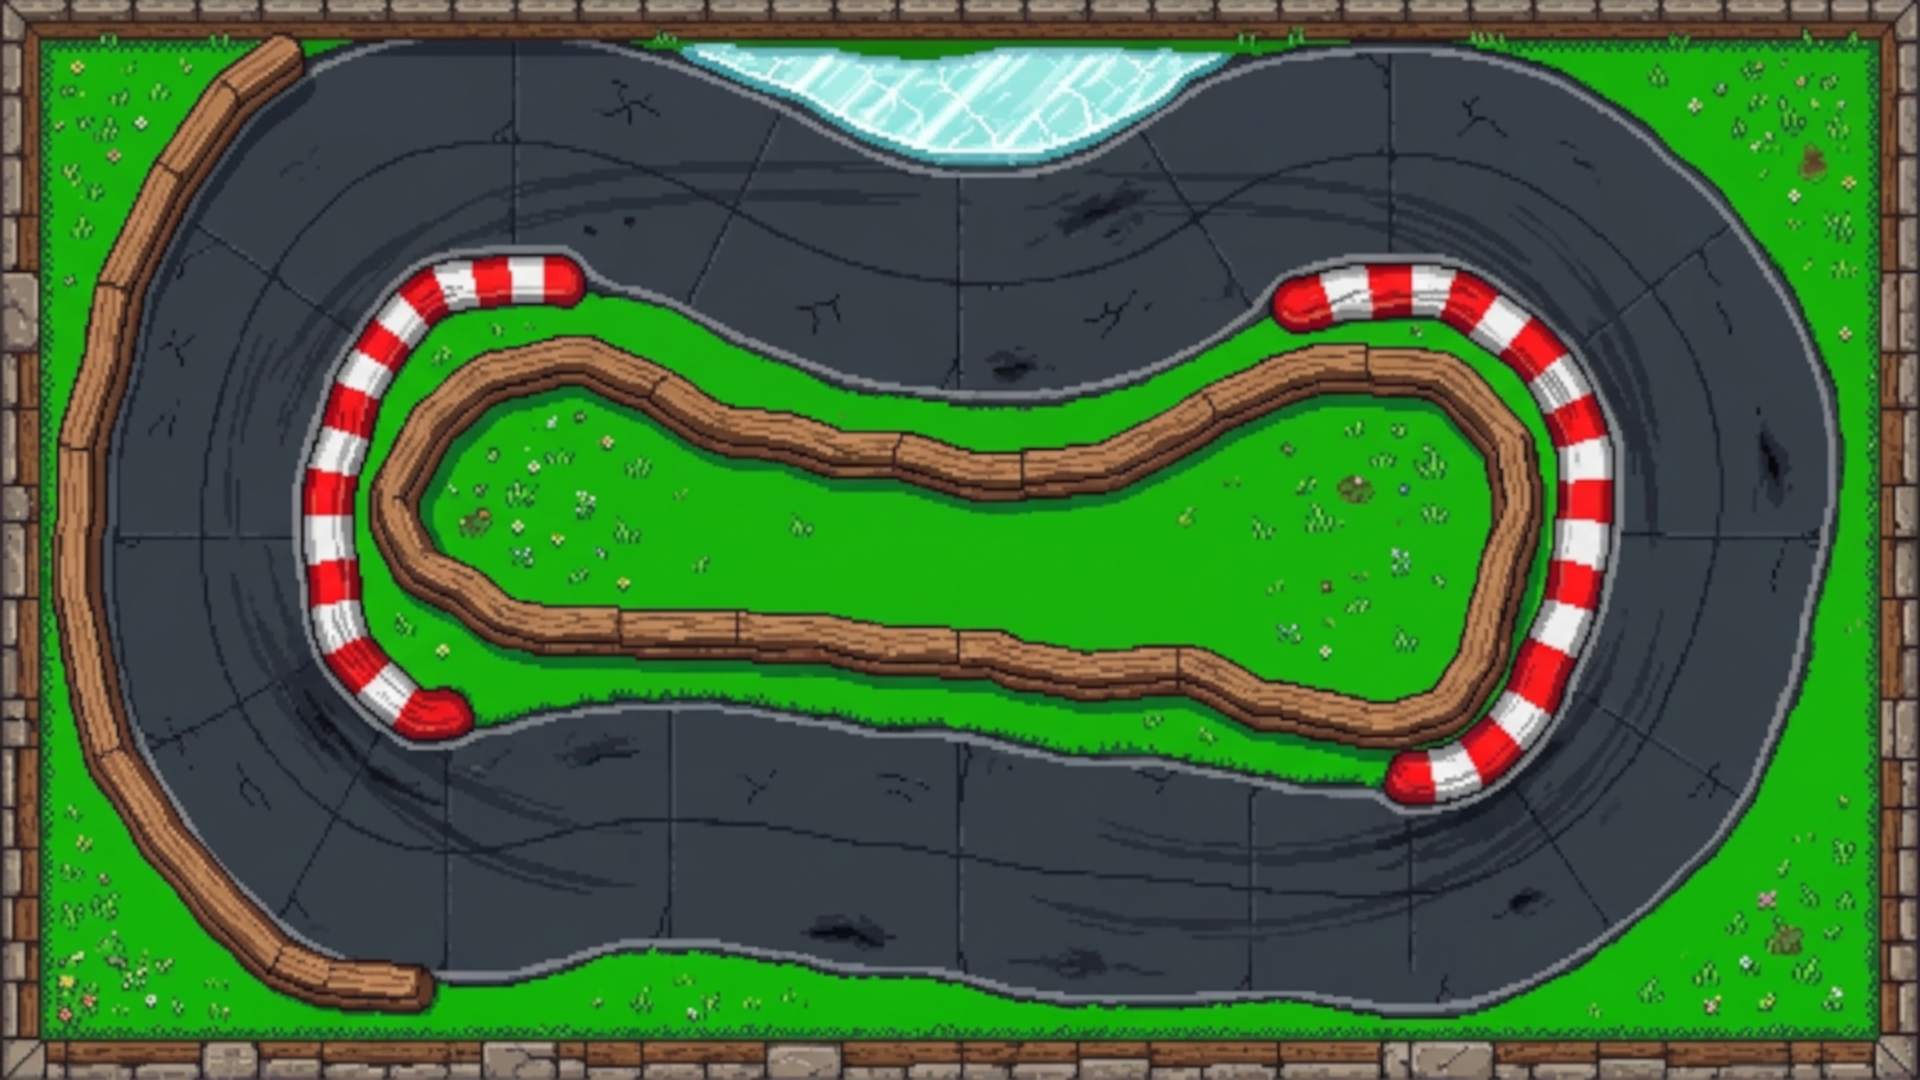
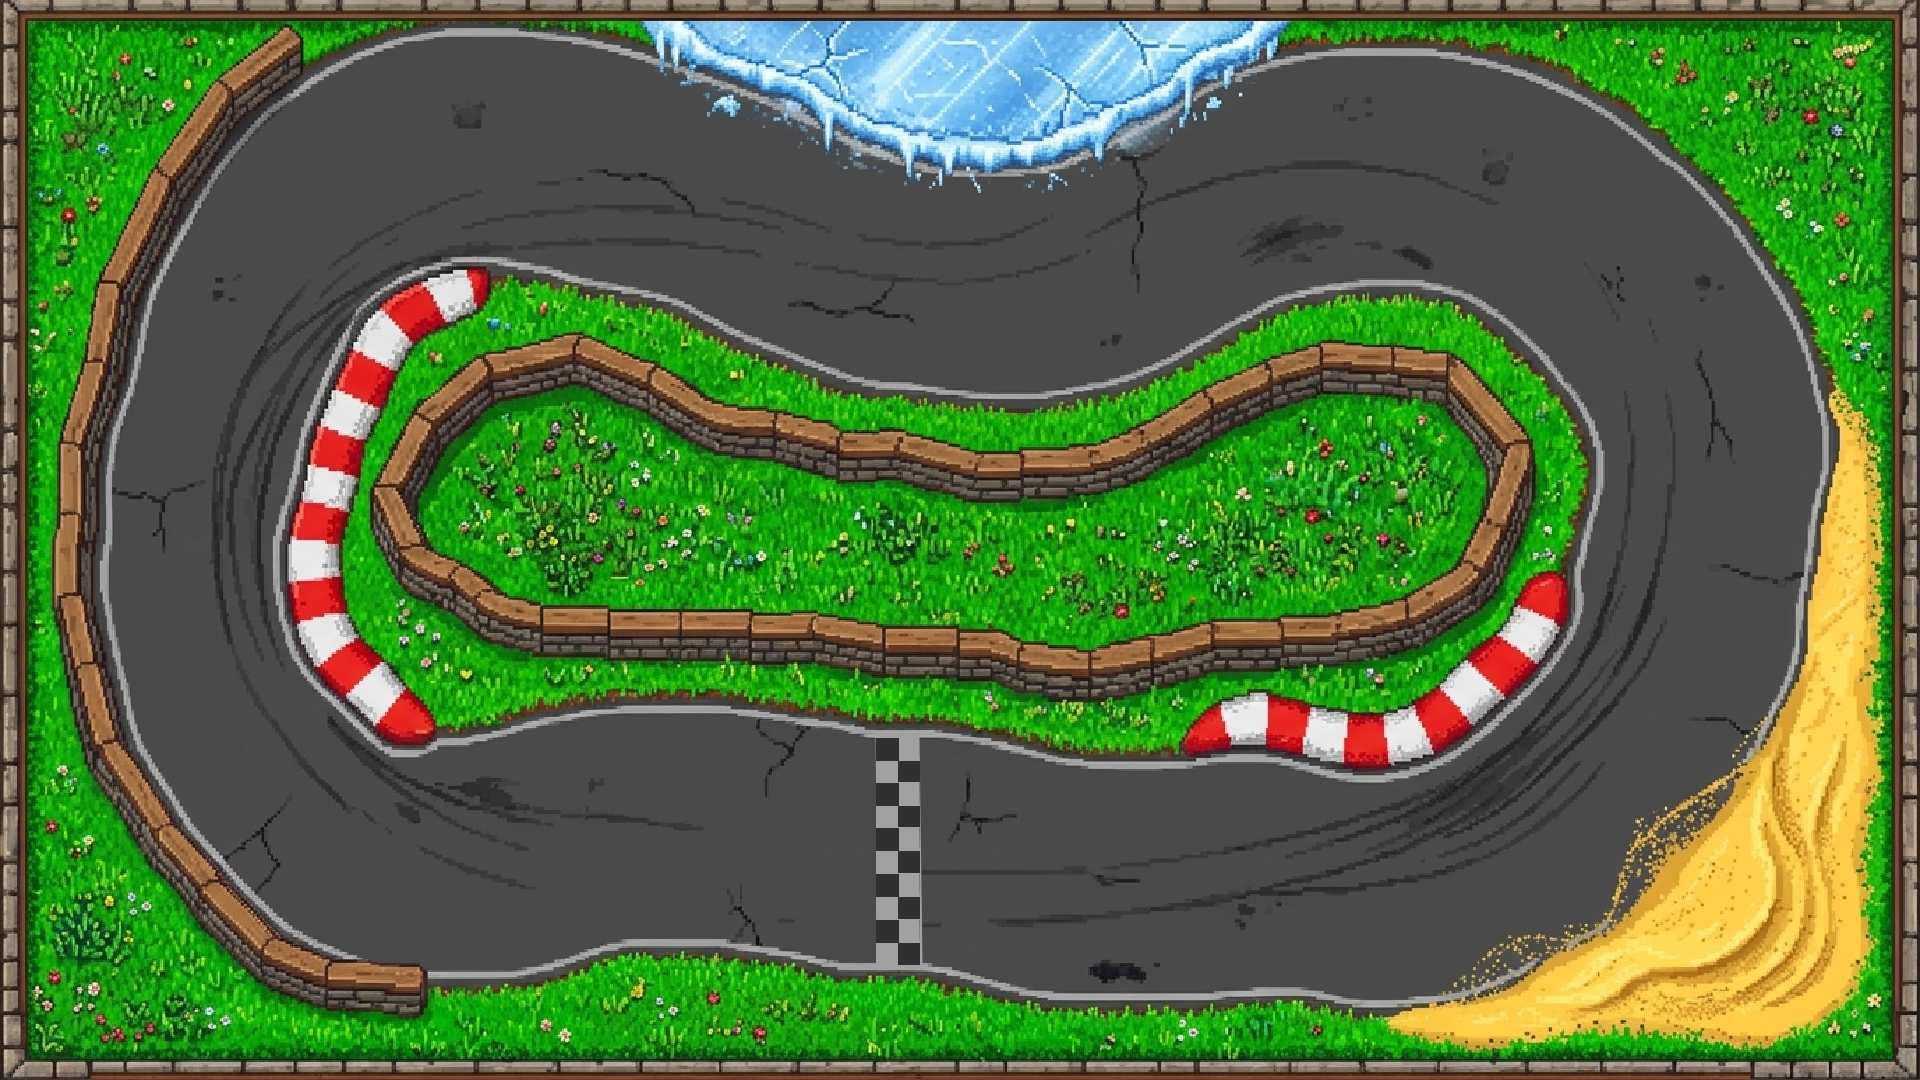
layout is upgraded, rolling resistance for soft roads, and curbs

diff --git a/model/car.py b/model/car.py
@@ -6,6 +6,7 @@ from constants import PIXEL_PER_METER as ppm
 from model.tire import Tire
 from tools.degree_trig import sind, cosd
 from model.circuit import Circuit
+import random
 class Car:
     """Voiture : physique, pneus, traces de pneus et sprite."""
 
@@ -193,6 +194,8 @@ class Car:
             if tile is not None :
                 if tile.road_type == 2 :
                     self.trigger_colision(corner) 
+                if tile.road_type == 4 :
+                    self.angle += 0.02*self.vx * (-0.5+random.random()) #vibration sur les vibreurs, magnitude fine tune et hard codé
 
     def compute_accelerations(self):
         
@@ -204,12 +207,14 @@ class Car:
         fx_car = 0
         fy_car = 0
         mom_tot = 0
-        
+        rolling_res_tot = 0
         for tire in self.list_tires:
-            fx,fy,tire_mark = tire.compute_forces()
+            fx,fy,tire_mark,rol_res = tire.compute_forces()
+            
             if tire.offset_length>0:
                 fx_car = fx * math.cos(self.steering_angle) - fy*math.sin(self.steering_angle)
                 fy_car = fx * math.sin(self.steering_angle) + fy*math.cos(self.steering_angle)
+                rolling_res_tot += rol_res
             else :
                 fx_car = fx
                 fy_car = fy
@@ -218,10 +223,9 @@ class Car:
                 self.render_tire_mark(tire_mark) # dans compute acceleration puisque le derapage du pneu est directement lié
             fx_tot += fx_car
             fy_tot +=fy_car
-
             mom_tot += tire.offset_length * fy_car - tire.offset_width * fx_car
-        fx_tot -= self.vx *abs(self.vx) * 0.6 + 0.5 * self.vx #friction du a l'air (vitesse carrée) et linéaire (vitesse lineaire)
-        
+        fx_tot -= self.vx *abs(self.vx) * rolling_res_tot + 0.5 * self.vx #friction du a l'air (vitesse carrée) et linéaire (vitesse lineaire)
+        rolling_res_tot = rolling_res_tot/4
         if self.vx >= 0.2:
             fx_tot -= 30
         elif self.vx <= -0.2:

diff --git a/tools/track_converter.py b/tools/track_converter.py
@@ -6,7 +6,7 @@ import os
 import pygame
 from constants import GRID_COLS, GRID_ROWS, TILE_SIZE
 
-references = [(48, 48, 48), (0, 255, 0), (127, 51, 0), (0,255,255)]      #route, herbe, mur, eau
+references = [(48, 48, 48), (0, 255, 0), (127, 51, 0), (0,255,255), (255,0,0), (255,216,0)]      #route, herbe, mur, glace, vibreur, sable
 
 def convert_track(chosen_track_path : str) -> list[list[int]]:
     """Convertit une image de circuit en matrice d'ID de tuiles.
@@ -21,7 +21,8 @@ def convert_track(chosen_track_path : str) -> list[list[int]]:
 
     Returns:
         Matrice de GRID_ROWS lignes et GRID_COLS colonnes, accessible par
-        matrix[row][col]. IDs : 0 = route, 1 = herbe, 2 = mur, 3 = glace.
+        matrix[row][col]. IDs : 0 = route, 1 = herbe, 2 = mur, 3 = glace,
+        4 = vibreur, 5 = sable.
     """
     image = pygame.image.load(chosen_track_path) #doit etre 24 bits ou plus
     resized = pygame.transform.smoothscale(image, (GRID_COLS * TILE_SIZE, GRID_ROWS * TILE_SIZE))

diff --git a/model/tire.py b/model/tire.py
@@ -26,8 +26,10 @@ class Tire :
         tile = self.get_tile()
         if tile is not None:
             friction_coef = c.FRICTION_COEFFS[tile.road_type]
+            rolling_res = c.ROLLING_RESISTANCE[tile.road_type]
         else :
             friction_coef = c.FRICTION_COEFFS[1]
+            rolling_res = c.ROLLING_RESISTANCE[1]
         self.compute_Fz()
 
         self.contact_point_vel() 
@@ -41,7 +43,7 @@ class Tire :
                         
         
         
-        return (Fx,Fy, tire_mark)
+        return (Fx,Fy, tire_mark, rolling_res)
 
 
     def generate_mark(self,current_slip):

diff --git a/constants.py b/constants.py
@@ -16,7 +16,9 @@ WINDOW_HEIGHT = TILE_SIZE * GRID_ROWS
 
 #Propriétés des ROAD_TILES
 
-FRICTION_COEFFS = [1.8 ,0.75,0,0.4] #route, herbe, mur, glace
+FRICTION_COEFFS = [1.8 ,1.1,1.5,0.6,1.4,0.8] #route, herbe, mur, glace, vibreur, sable
+#coefficient de résistance au roulement (sans unité), force = coeff * masse * g. Même ordre que FRICTION_COEFFS
+ROLLING_RESISTANCE = [0.6,1.4,1,0.2,1,3] #route, herbe, mur, glace, vibreur, sable
 
 #Coefficients de la Magic Tire Equation
 PACEJKA_B_LONG = 10
